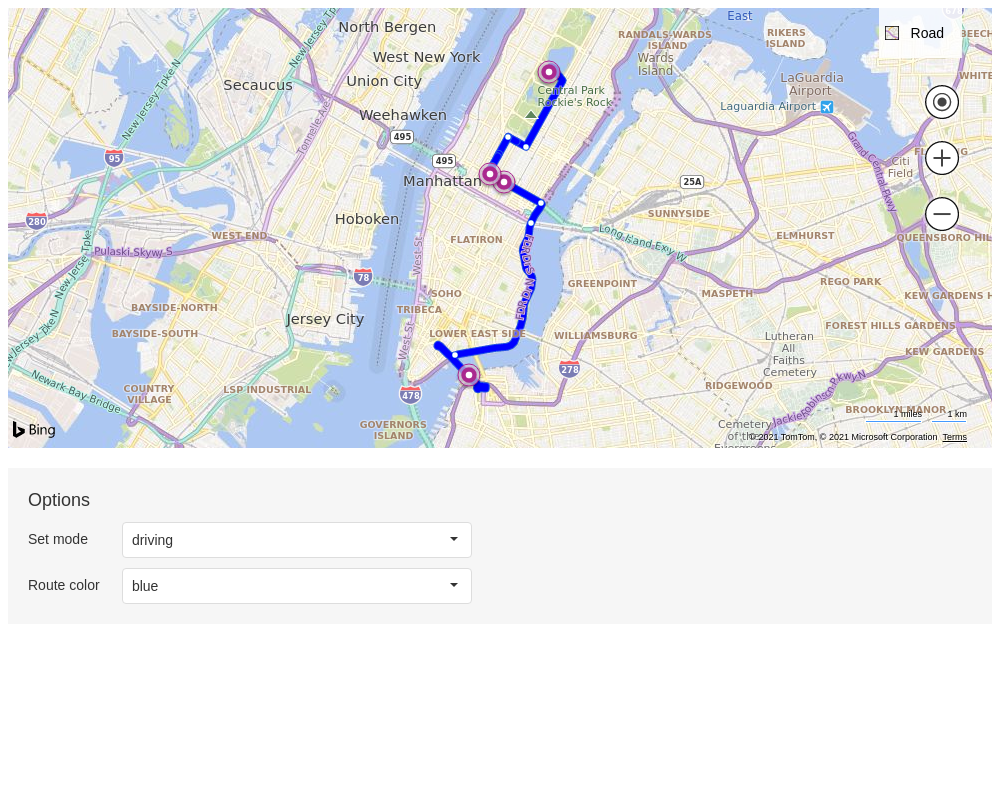
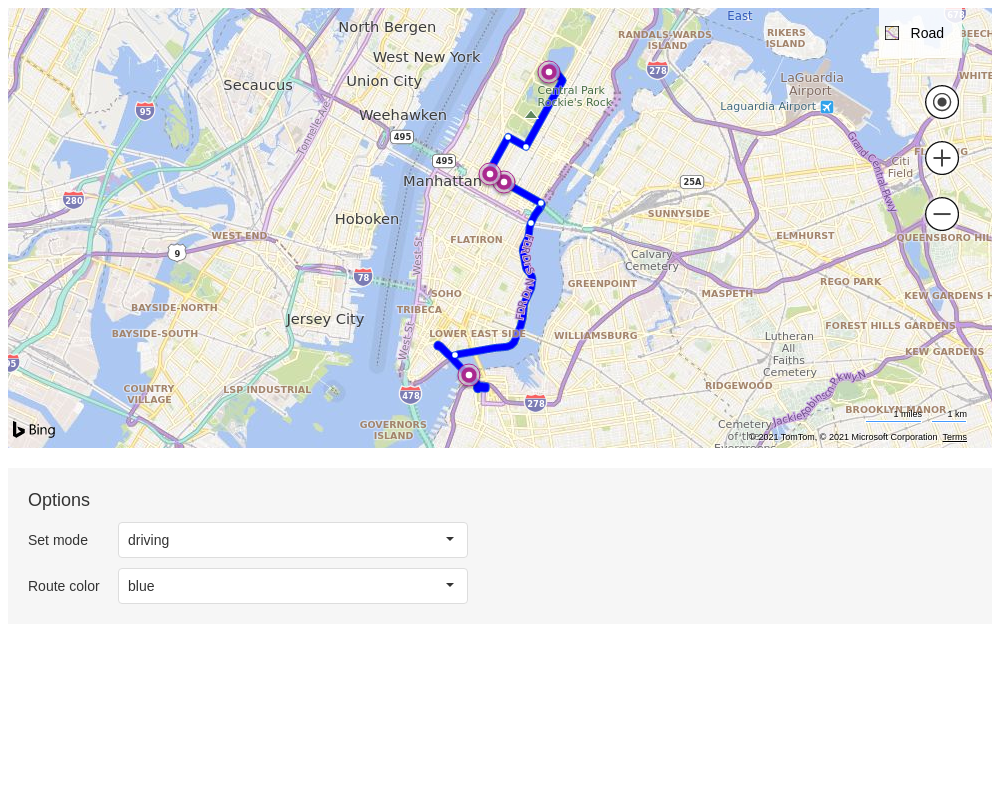
add flex property

diff --git a/JSDemos/Demos/Map/Routes/React/App.js b/JSDemos/Demos/Map/Routes/React/App.js
@@ -30,7 +30,7 @@ class App extends React.Component {
         <div className="options">
           <div className="caption">Options</div>
           <div className="option">
-            <span>Set mode</span>&nbsp;
+            <span>Set mode</span>
             <SelectBox
               defaultValue="driving"
               items={['driving', 'walking']}
@@ -38,7 +38,7 @@ class App extends React.Component {
             />
           </div>
           <div className="option">
-            <span>Route color</span>&nbsp;
+            <span>Route color</span>
             <SelectBox
               defaultValue="blue"
               items={['blue', 'green', 'red']}

diff --git a/JSDemos/Demos/Map/Routes/Vue/App.vue b/JSDemos/Demos/Map/Routes/Vue/App.vue
@@ -80,11 +80,13 @@ export default {
 
 .option {
   margin-top: 10px;
+  display: flex;
+  align-items: center;
 }
 
 .option > span {
   display: inline-block;
-  width: 94px;
+  width: 90px;
 }
 
 .option > .dx-selectbox {

diff --git a/JSDemos/Demos/Map/Routes/Angular/app/app.component.css b/JSDemos/Demos/Map/Routes/Angular/app/app.component.css
@@ -9,6 +9,8 @@
 }
 ::ng-deep .option {
     margin-top: 10px;
+    display: flex;
+    align-items: center;
 }
 ::ng-deep .option > span {
     display: inline-block;

diff --git a/MVCDemos/Content/DemosStyles/Map/Routes.css b/MVCDemos/Content/DemosStyles/Map/Routes.css
@@ -11,7 +11,9 @@
 
 .option {
     margin-top: 10px;
-}
+    display: flex;
+    align-items: center;
+  }
 
 .option > span {
     display: inline-block;

diff --git a/JSDemos/Demos/Map/Routes/AngularJS/styles.css b/JSDemos/Demos/Map/Routes/AngularJS/styles.css
@@ -11,6 +11,8 @@
 
 .option {
     margin-top: 10px;
+    display: flex;
+    align-items: center;
 }
 
 .option > span {

diff --git a/JSDemos/Demos/Map/Routes/Knockout/styles.css b/JSDemos/Demos/Map/Routes/Knockout/styles.css
@@ -11,6 +11,8 @@
 
 .option {
     margin-top: 10px;
+    display: flex;
+    align-items: center;
 }
 
 .option > span {

diff --git a/JSDemos/Demos/Map/Routes/React/styles.css b/JSDemos/Demos/Map/Routes/React/styles.css
@@ -11,6 +11,8 @@
 
 .option {
     margin-top: 10px;
+    display: flex;
+    align-items: center;
 }
 
 .option > span {

diff --git a/JSDemos/Demos/Map/Routes/jQuery/styles.css b/JSDemos/Demos/Map/Routes/jQuery/styles.css
@@ -11,6 +11,8 @@
 
 .option {
     margin-top: 10px;
+    display: flex;
+    align-items: center;
 }
 
 .option > span {

diff --git a/NetCoreDemos/wwwroot/css/DemosStyles/Map/Routes.css b/NetCoreDemos/wwwroot/css/DemosStyles/Map/Routes.css
@@ -11,6 +11,8 @@
 
 .option {
     margin-top: 10px;
+    display: flex;
+    align-items: center;
 }
 
 .option > span {
